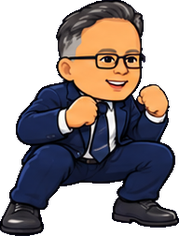
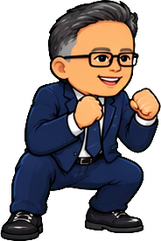
La Mocha: Marcelo con recorte desde fondo verde
Claude-Session: https://claude.ai/code/session_019FDnwE1yNBZjJsBSPwGXXr

diff --git a/la-mocha/index.html b/la-mocha/index.html
@@ -312,7 +312,7 @@ ROSTER.find(c=>c.name==="Bruno").spr="Bruno";
 /* ---------- Dibujo de luchadores ---------- */
 const HEADS=new Map();
 /* ---------- Sprites ilustrados ---------- */
-const SPRITES={"Ivan":{portrait:"personajes/Ivan/portrait.png",idle:{w:138,h:300,ax:72,src:"personajes/Ivan/idle.png"},punch:{w:167,h:300,ax:90,src:"personajes/Ivan/punch.png"},kick:{w:162,h:300,ax:36,src:"personajes/Ivan/kick.png"},hit:{w:145,h:300,ax:38,src:"personajes/Ivan/hit.png"},win:{w:134,h:300,ax:71,src:"personajes/Ivan/win.png"},crouch:{w:169,h:241,ax:92,src:"personajes/Ivan/crouch.png"},crouch_punch:{w:197,h:242,ax:105,src:"personajes/Ivan/crouch_punch.png"},crouch_kick:{w:177,h:215,ax:54,src:"personajes/Ivan/crouch_kick.png"},punch_hi:{w:182,h:300,ax:119,src:"personajes/Ivan/punch_hi.png"},upper:{w:190,h:325,ax:121,src:"personajes/Ivan/upper.png"},kick_hi:{w:176,h:300,ax:71,src:"personajes/Ivan/kick_hi.png"},block:{w:154,h:300,ax:82,src:"personajes/Ivan/block.png"}},"Marcelo":{portrait:"personajes/Marcelo/portrait.png",idle:{w:184,h:300,ax:93,src:"personajes/Marcelo/idle.png"},punch:{w:211,h:297,ax:104,src:"personajes/Marcelo/punch.png"},kick:{w:193,h:295,ax:50,src:"personajes/Marcelo/kick.png"},hit:{w:221,h:282,ax:63,src:"personajes/Marcelo/hit.png"},win:{w:201,h:294,ax:93,src:"personajes/Marcelo/win.png"},crouch:{w:179,h:236,ax:97,src:"personajes/Marcelo/crouch.png"},crouch_punch:{w:219,h:235,ax:121,src:"personajes/Marcelo/crouch_punch.png"},crouch_kick:{w:214,h:239,ax:78,src:"personajes/Marcelo/crouch_kick.png"},punch_hi:{w:212,h:306,ax:90,src:"personajes/Marcelo/punch_hi.png"},upper:{w:198,h:260,ax:98,src:"personajes/Marcelo/upper.png"},kick_hi:{w:201,h:327,ax:51,src:"personajes/Marcelo/kick_hi.png"},block:{w:187,h:291,ax:82,src:"personajes/Marcelo/block.png"}},"Bruno":{portrait:"personajes/Bruno/portrait.png",idle:{w:162,h:300,ax:85,src:"personajes/Bruno/idle.png"},punch:{w:201,h:300,ax:97,src:"personajes/Bruno/punch.png"},kick:{w:198,h:300,ax:46,src:"personajes/Bruno/kick.png"},hit:{w:167,h:300,ax:42,src:"personajes/Bruno/hit.png"},win:{w:153,h:300,ax:83,src:"personajes/Bruno/win.png"},crouch:{w:165,h:239,ax:105,src:"personajes/Bruno/crouch.png"},crouch_punch:{w:237,h:237,ax:115,src:"personajes/Bruno/crouch_punch.png"},crouch_kick:{w:175,h:198,ax:68,src:"personajes/Bruno/crouch_kick.png"},punch_hi:{w:174,h:302,ax:103,src:"personajes/Bruno/punch_hi.png"},upper:{w:194,h:337,ax:90,src:"personajes/Bruno/upper.png"},kick_hi:{w:188,h:300,ax:70,src:"personajes/Bruno/kick_hi.png"},block:{w:182,h:300,ax:105,src:"personajes/Bruno/block.png"}},"Karl":{portrait:"personajes/Karl/portrait.png",idle:{w:192,h:300,ax:88,src:"personajes/Karl/idle.png"},punch:{w:220,h:286,ax:112,src:"personajes/Karl/punch.png"},kick:{w:191,h:268,ax:34,src:"personajes/Karl/kick.png"},hit:{w:211,h:283,ax:32,src:"personajes/Karl/hit.png"},win:{w:202,h:317,ax:89,src:"personajes/Karl/win.png"},crouch:{w:178,h:233,ax:92,src:"personajes/Karl/crouch.png"},crouch_punch:{w:226,h:232,ax:120,src:"personajes/Karl/crouch_punch.png"},crouch_kick:{w:215,h:255,ax:52,src:"personajes/Karl/crouch_kick.png"},punch_hi:{w:209,h:306,ax:87,src:"personajes/Karl/punch_hi.png"},upper:{w:191,h:312,ax:85,src:"personajes/Karl/upper.png"},kick_hi:{w:192,h:340,ax:33,src:"personajes/Karl/kick_hi.png"},block:{w:190,h:295,ax:63,src:"personajes/Karl/block.png"}},"Klaus":{portrait:"personajes/Klaus/portrait.png",idle:{w:136,h:300,ax:70,src:"personajes/Klaus/idle.png"},punch:{w:158,h:300,ax:72,src:"personajes/Klaus/punch.png"},kick:{w:162,h:300,ax:37,src:"personajes/Klaus/kick.png"},hit:{w:144,h:300,ax:38,src:"personajes/Klaus/hit.png"},win:{w:128,h:300,ax:62,src:"personajes/Klaus/win.png"},crouch:{w:144,h:244,ax:94,src:"personajes/Klaus/crouch.png"},crouch_punch:{w:186,h:239,ax:86,src:"personajes/Klaus/crouch_punch.png"},crouch_kick:{w:156,h:208,ax:56,src:"personajes/Klaus/crouch_kick.png"},punch_hi:{w:186,h:302,ax:97,src:"personajes/Klaus/punch_hi.png"},upper:{w:199,h:341,ax:89,src:"personajes/Klaus/upper.png"},kick_hi:{w:168,h:300,ax:59,src:"personajes/Klaus/kick_hi.png"},block:{w:171,h:300,ax:94,src:"personajes/Klaus/block.png"}},"Felipe":{portrait:"personajes/Felipe/portrait.png",idle:{w:178,h:300,ax:101,src:"personajes/Felipe/idle.png"},punch:{w:207,h:300,ax:96,src:"personajes/Felipe/punch.png"},kick:{w:204,h:300,ax:70,src:"personajes/Felipe/kick.png"},hit:{w:187,h:300,ax:48,src:"personajes/Felipe/hit.png"},win:{w:174,h:300,ax:89,src:"personajes/Felipe/win.png"},crouch:{w:210,h:241,ax:117,src:"personajes/Felipe/crouch.png"},crouch_punch:{w:244,h:241,ax:114,src:"personajes/Felipe/crouch_punch.png"},crouch_kick:{w:201,h:200,ax:60,src:"personajes/Felipe/crouch_kick.png"},punch_hi:{w:233,h:302,ax:154,src:"personajes/Felipe/punch_hi.png"},upper:{w:218,h:341,ax:109,src:"personajes/Felipe/upper.png"},kick_hi:{w:192,h:307,ax:107,src:"personajes/Felipe/kick_hi.png"},block:{w:180,h:300,ax:100,src:"personajes/Felipe/block.png"}},"Adam":{portrait:"personajes/Adam/portrait.png",idle:{w:193,h:300,ax:99,src:"personajes/Adam/idle.png"},punch:{w:245,h:300,ax:124,src:"personajes/Adam/punch.png"},kick:{w:252,h:300,ax:80,src:"personajes/Adam/kick.png"},hit:{w:228,h:300,ax:75,src:"personajes/Adam/hit.png"},win:{w:185,h:300,ax:94,src:"personajes/Adam/win.png"},crouch:{w:217,h:236,ax:119,src:"personajes/Adam/crouch.png"},crouch_punch:{w:289,h:241,ax:146,src:"personajes/Adam/crouch_punch.png"},crouch_kick:{w:159,h:183,ax:53,src:"personajes/Adam/crouch_kick.png"},punch_hi:{w:199,h:305,ax:123,src:"personajes/Adam/punch_hi.png"},upper:{w:208,h:339,ax:127,src:"personajes/Adam/upper.png"},kick_hi:{w:202,h:307,ax:117,src:"personajes/Adam/kick_hi.png"},block:{w:180,h:300,ax:83,src:"personajes/Adam/block.png"}},"Lazza":{portrait:"personajes/Lazza/portrait.png",idle:{w:154,h:300,ax:77,src:"personajes/Lazza/idle.png"},punch:{w:186,h:300,ax:86,src:"personajes/Lazza/punch.png"},kick:{w:189,h:300,ax:53,src:"personajes/Lazza/kick.png"},hit:{w:163,h:300,ax:45,src:"personajes/Lazza/hit.png"},win:{w:147,h:300,ax:79,src:"personajes/Lazza/win.png"},crouch:{w:196,h:248,ax:104,src:"personajes/Lazza/crouch.png"},crouch_punch:{w:219,h:239,ax:102,src:"personajes/Lazza/crouch_punch.png"},crouch_kick:{w:168,h:191,ax:44,src:"personajes/Lazza/crouch_kick.png"},punch_hi:{w:216,h:300,ax:110,src:"personajes/Lazza/punch_hi.png"},upper:{w:217,h:348,ax:108,src:"personajes/Lazza/upper.png"},kick_hi:{w:217,h:309,ax:83,src:"personajes/Lazza/kick_hi.png"},block:{w:156,h:300,ax:64,src:"personajes/Lazza/block.png"}},"Espe":{portrait:"personajes/Espe/portrait.png",idle:{w:152,h:300,ax:67,src:"personajes/Espe/idle.png"},punch:{w:184,h:300,ax:86,src:"personajes/Espe/punch.png"},kick:{w:187,h:300,ax:49,src:"personajes/Espe/kick.png"},hit:{w:164,h:300,ax:49,src:"personajes/Espe/hit.png"},win:{w:126,h:300,ax:68,src:"personajes/Espe/win.png"},crouch:{w:182,h:241,ax:89,src:"personajes/Espe/crouch.png"},crouch_punch:{w:217,h:232,ax:102,src:"personajes/Espe/crouch_punch.png"},crouch_kick:{w:172,h:202,ax:55,src:"personajes/Espe/crouch_kick.png"},punch_hi:{w:215,h:302,ax:134,src:"personajes/Espe/punch_hi.png"},upper:{w:236,h:350,ax:154,src:"personajes/Espe/upper.png"},kick_hi:{w:218,h:300,ax:95,src:"personajes/Espe/kick_hi.png"},block:{w:168,h:300,ax:99,src:"personajes/Espe/block.png"}},"Marco":{portrait:"personajes/Marco/portrait.png",idle:{w:148,h:300,ax:81,src:"personajes/Marco/idle.png"},punch:{w:200,h:300,ax:107,src:"personajes/Marco/punch.png"},kick:{w:187,h:300,ax:53,src:"personajes/Marco/kick.png"},hit:{w:167,h:300,ax:49,src:"personajes/Marco/hit.png"},win:{w:163,h:300,ax:90,src:"personajes/Marco/win.png"},crouch:{w:161,h:242,ax:98,src:"personajes/Marco/crouch.png"},crouch_punch:{w:236,h:240,ax:125,src:"personajes/Marco/crouch_punch.png"},crouch_kick:{w:206,h:190,ax:58,src:"personajes/Marco/crouch_kick.png"},punch_hi:{w:229,h:306,ax:147,src:"personajes/Marco/punch_hi.png"},upper:{w:237,h:355,ax:134,src:"personajes/Marco/upper.png"},kick_hi:{w:212,h:302,ax:62,src:"personajes/Marco/kick_hi.png"},block:{w:183,h:300,ax:91,src:"personajes/Marco/block.png"}},"Maxi":{portrait:"personajes/Maxi/portrait.png",idle:{w:170,h:300,ax:87,src:"personajes/Maxi/idle.png"},punch:{w:192,h:300,ax:91,src:"personajes/Maxi/punch.png"},kick:{w:182,h:300,ax:40,src:"personajes/Maxi/kick.png"},hit:{w:175,h:300,ax:51,src:"personajes/Maxi/hit.png"},win:{w:167,h:300,ax:96,src:"personajes/Maxi/win.png"},crouch:{w:201,h:241,ax:102,src:"personajes/Maxi/crouch.png"},crouch_punch:{w:227,h:241,ax:108,src:"personajes/Maxi/crouch_punch.png"},crouch_kick:{w:164,h:201,ax:46,src:"personajes/Maxi/crouch_kick.png"},punch_hi:{w:196,h:300,ax:98,src:"personajes/Maxi/punch_hi.png"},upper:{w:224,h:349,ax:99,src:"personajes/Maxi/upper.png"},kick_hi:{w:182,h:300,ax:63,src:"personajes/Maxi/kick_hi.png"},block:{w:198,h:300,ax:109,src:"personajes/Maxi/block.png"}},"Marcelo Ig":{portrait:"personajes/Marcelo_Ig/portrait.png",idle:{w:173,h:300,ax:94,src:"personajes/Marcelo_Ig/idle.png"},punch:{w:197,h:300,ax:105,src:"personajes/Marcelo_Ig/punch.png"},kick:{w:189,h:300,ax:42,src:"personajes/Marcelo_Ig/kick.png"},hit:{w:176,h:300,ax:44,src:"personajes/Marcelo_Ig/hit.png"},win:{w:167,h:300,ax:91,src:"personajes/Marcelo_Ig/win.png"},crouch:{w:204,h:241,ax:109,src:"personajes/Marcelo_Ig/crouch.png"},crouch_punch:{w:232,h:241,ax:122,src:"personajes/Marcelo_Ig/crouch_punch.png"},crouch_kick:{w:176,h:204,ax:42,src:"personajes/Marcelo_Ig/crouch_kick.png"},punch_hi:{w:205,h:302,ax:133,src:"personajes/Marcelo_Ig/punch_hi.png"},upper:{w:217,h:355,ax:93,src:"personajes/Marcelo_Ig/upper.png"},kick_hi:{w:197,h:300,ax:60,src:"personajes/Marcelo_Ig/kick_hi.png"},block:{w:196,h:300,ax:106,src:"personajes/Marcelo_Ig/block.png"}},"Miguel":{portrait:"personajes/Miguel/portrait.png",idle:{w:173,h:300,ax:102,src:"personajes/Miguel/idle.png"},punch:{w:199,h:300,ax:106,src:"personajes/Miguel/punch.png"},kick:{w:206,h:300,ax:55,src:"personajes/Miguel/kick.png"},hit:{w:199,h:300,ax:48,src:"personajes/Miguel/hit.png"},win:{w:169,h:300,ax:93,src:"personajes/Miguel/win.png"},crouch:{w:204,h:248,ax:117,src:"personajes/Miguel/crouch.png"},crouch_punch:{w:235,h:248,ax:124,src:"personajes/Miguel/crouch_punch.png"},crouch_kick:{w:166,h:193,ax:49,src:"personajes/Miguel/crouch_kick.png"},punch_hi:{w:200,h:300,ax:106,src:"personajes/Miguel/punch_hi.png"},upper:{w:214,h:300,ax:107,src:"personajes/Miguel/upper.png"},kick_hi:{w:189,h:300,ax:57,src:"personajes/Miguel/kick_hi.png"},block:{w:176,h:300,ax:87,src:"personajes/Miguel/block.png"}}};
+const SPRITES={"Ivan":{portrait:"personajes/Ivan/portrait.png",idle:{w:138,h:300,ax:72,src:"personajes/Ivan/idle.png"},punch:{w:167,h:300,ax:90,src:"personajes/Ivan/punch.png"},kick:{w:162,h:300,ax:36,src:"personajes/Ivan/kick.png"},hit:{w:145,h:300,ax:38,src:"personajes/Ivan/hit.png"},win:{w:134,h:300,ax:71,src:"personajes/Ivan/win.png"},crouch:{w:169,h:241,ax:92,src:"personajes/Ivan/crouch.png"},crouch_punch:{w:197,h:242,ax:105,src:"personajes/Ivan/crouch_punch.png"},crouch_kick:{w:177,h:215,ax:54,src:"personajes/Ivan/crouch_kick.png"},punch_hi:{w:182,h:300,ax:119,src:"personajes/Ivan/punch_hi.png"},upper:{w:190,h:325,ax:121,src:"personajes/Ivan/upper.png"},kick_hi:{w:176,h:300,ax:71,src:"personajes/Ivan/kick_hi.png"},block:{w:154,h:300,ax:82,src:"personajes/Ivan/block.png"}},"Marcelo":{portrait:"personajes/Marcelo/portrait.png",idle:{w:182,h:300,ax:83,src:"personajes/Marcelo/idle.png"},punch:{w:201,h:285,ax:94,src:"personajes/Marcelo/punch.png"},kick:{w:187,h:284,ax:55,src:"personajes/Marcelo/kick.png"},hit:{w:203,h:265,ax:62,src:"personajes/Marcelo/hit.png"},win:{w:181,h:276,ax:63,src:"personajes/Marcelo/win.png"},crouch:{w:161,h:241,ax:90,src:"personajes/Marcelo/crouch.png"},crouch_punch:{w:213,h:235,ax:120,src:"personajes/Marcelo/crouch_punch.png"},crouch_kick:{w:207,h:235,ax:60,src:"personajes/Marcelo/crouch_kick.png"},punch_hi:{w:198,h:300,ax:84,src:"personajes/Marcelo/punch_hi.png"},upper:{w:188,h:305,ax:80,src:"personajes/Marcelo/upper.png"},kick_hi:{w:193,h:310,ax:55,src:"personajes/Marcelo/kick_hi.png"},block:{w:184,h:290,ax:79,src:"personajes/Marcelo/block.png"}},"Bruno":{portrait:"personajes/Bruno/portrait.png",idle:{w:162,h:300,ax:85,src:"personajes/Bruno/idle.png"},punch:{w:201,h:300,ax:97,src:"personajes/Bruno/punch.png"},kick:{w:198,h:300,ax:46,src:"personajes/Bruno/kick.png"},hit:{w:167,h:300,ax:42,src:"personajes/Bruno/hit.png"},win:{w:153,h:300,ax:83,src:"personajes/Bruno/win.png"},crouch:{w:165,h:239,ax:105,src:"personajes/Bruno/crouch.png"},crouch_punch:{w:237,h:237,ax:115,src:"personajes/Bruno/crouch_punch.png"},crouch_kick:{w:175,h:198,ax:68,src:"personajes/Bruno/crouch_kick.png"},punch_hi:{w:174,h:302,ax:103,src:"personajes/Bruno/punch_hi.png"},upper:{w:194,h:337,ax:90,src:"personajes/Bruno/upper.png"},kick_hi:{w:188,h:300,ax:70,src:"personajes/Bruno/kick_hi.png"},block:{w:182,h:300,ax:105,src:"personajes/Bruno/block.png"}},"Karl":{portrait:"personajes/Karl/portrait.png",idle:{w:192,h:300,ax:88,src:"personajes/Karl/idle.png"},punch:{w:220,h:286,ax:112,src:"personajes/Karl/punch.png"},kick:{w:191,h:268,ax:34,src:"personajes/Karl/kick.png"},hit:{w:211,h:283,ax:32,src:"personajes/Karl/hit.png"},win:{w:202,h:317,ax:89,src:"personajes/Karl/win.png"},crouch:{w:178,h:233,ax:92,src:"personajes/Karl/crouch.png"},crouch_punch:{w:226,h:232,ax:120,src:"personajes/Karl/crouch_punch.png"},crouch_kick:{w:215,h:255,ax:52,src:"personajes/Karl/crouch_kick.png"},punch_hi:{w:209,h:306,ax:87,src:"personajes/Karl/punch_hi.png"},upper:{w:191,h:312,ax:85,src:"personajes/Karl/upper.png"},kick_hi:{w:192,h:340,ax:33,src:"personajes/Karl/kick_hi.png"},block:{w:190,h:295,ax:63,src:"personajes/Karl/block.png"}},"Klaus":{portrait:"personajes/Klaus/portrait.png",idle:{w:136,h:300,ax:70,src:"personajes/Klaus/idle.png"},punch:{w:158,h:300,ax:72,src:"personajes/Klaus/punch.png"},kick:{w:162,h:300,ax:37,src:"personajes/Klaus/kick.png"},hit:{w:144,h:300,ax:38,src:"personajes/Klaus/hit.png"},win:{w:128,h:300,ax:62,src:"personajes/Klaus/win.png"},crouch:{w:144,h:244,ax:94,src:"personajes/Klaus/crouch.png"},crouch_punch:{w:186,h:239,ax:86,src:"personajes/Klaus/crouch_punch.png"},crouch_kick:{w:156,h:208,ax:56,src:"personajes/Klaus/crouch_kick.png"},punch_hi:{w:186,h:302,ax:97,src:"personajes/Klaus/punch_hi.png"},upper:{w:199,h:341,ax:89,src:"personajes/Klaus/upper.png"},kick_hi:{w:168,h:300,ax:59,src:"personajes/Klaus/kick_hi.png"},block:{w:171,h:300,ax:94,src:"personajes/Klaus/block.png"}},"Felipe":{portrait:"personajes/Felipe/portrait.png",idle:{w:178,h:300,ax:101,src:"personajes/Felipe/idle.png"},punch:{w:207,h:300,ax:96,src:"personajes/Felipe/punch.png"},kick:{w:204,h:300,ax:70,src:"personajes/Felipe/kick.png"},hit:{w:187,h:300,ax:48,src:"personajes/Felipe/hit.png"},win:{w:174,h:300,ax:89,src:"personajes/Felipe/win.png"},crouch:{w:210,h:241,ax:117,src:"personajes/Felipe/crouch.png"},crouch_punch:{w:244,h:241,ax:114,src:"personajes/Felipe/crouch_punch.png"},crouch_kick:{w:201,h:200,ax:60,src:"personajes/Felipe/crouch_kick.png"},punch_hi:{w:233,h:302,ax:154,src:"personajes/Felipe/punch_hi.png"},upper:{w:218,h:341,ax:109,src:"personajes/Felipe/upper.png"},kick_hi:{w:192,h:307,ax:107,src:"personajes/Felipe/kick_hi.png"},block:{w:180,h:300,ax:100,src:"personajes/Felipe/block.png"}},"Adam":{portrait:"personajes/Adam/portrait.png",idle:{w:193,h:300,ax:99,src:"personajes/Adam/idle.png"},punch:{w:245,h:300,ax:124,src:"personajes/Adam/punch.png"},kick:{w:252,h:300,ax:80,src:"personajes/Adam/kick.png"},hit:{w:228,h:300,ax:75,src:"personajes/Adam/hit.png"},win:{w:185,h:300,ax:94,src:"personajes/Adam/win.png"},crouch:{w:217,h:236,ax:119,src:"personajes/Adam/crouch.png"},crouch_punch:{w:289,h:241,ax:146,src:"personajes/Adam/crouch_punch.png"},crouch_kick:{w:159,h:183,ax:53,src:"personajes/Adam/crouch_kick.png"},punch_hi:{w:199,h:305,ax:123,src:"personajes/Adam/punch_hi.png"},upper:{w:208,h:339,ax:127,src:"personajes/Adam/upper.png"},kick_hi:{w:202,h:307,ax:117,src:"personajes/Adam/kick_hi.png"},block:{w:180,h:300,ax:83,src:"personajes/Adam/block.png"}},"Lazza":{portrait:"personajes/Lazza/portrait.png",idle:{w:154,h:300,ax:77,src:"personajes/Lazza/idle.png"},punch:{w:186,h:300,ax:86,src:"personajes/Lazza/punch.png"},kick:{w:189,h:300,ax:53,src:"personajes/Lazza/kick.png"},hit:{w:163,h:300,ax:45,src:"personajes/Lazza/hit.png"},win:{w:147,h:300,ax:79,src:"personajes/Lazza/win.png"},crouch:{w:196,h:248,ax:104,src:"personajes/Lazza/crouch.png"},crouch_punch:{w:219,h:239,ax:102,src:"personajes/Lazza/crouch_punch.png"},crouch_kick:{w:168,h:191,ax:44,src:"personajes/Lazza/crouch_kick.png"},punch_hi:{w:216,h:300,ax:110,src:"personajes/Lazza/punch_hi.png"},upper:{w:217,h:348,ax:108,src:"personajes/Lazza/upper.png"},kick_hi:{w:217,h:309,ax:83,src:"personajes/Lazza/kick_hi.png"},block:{w:156,h:300,ax:64,src:"personajes/Lazza/block.png"}},"Espe":{portrait:"personajes/Espe/portrait.png",idle:{w:152,h:300,ax:67,src:"personajes/Espe/idle.png"},punch:{w:184,h:300,ax:86,src:"personajes/Espe/punch.png"},kick:{w:187,h:300,ax:49,src:"personajes/Espe/kick.png"},hit:{w:164,h:300,ax:49,src:"personajes/Espe/hit.png"},win:{w:126,h:300,ax:68,src:"personajes/Espe/win.png"},crouch:{w:182,h:241,ax:89,src:"personajes/Espe/crouch.png"},crouch_punch:{w:217,h:232,ax:102,src:"personajes/Espe/crouch_punch.png"},crouch_kick:{w:172,h:202,ax:55,src:"personajes/Espe/crouch_kick.png"},punch_hi:{w:215,h:302,ax:134,src:"personajes/Espe/punch_hi.png"},upper:{w:236,h:350,ax:154,src:"personajes/Espe/upper.png"},kick_hi:{w:218,h:300,ax:95,src:"personajes/Espe/kick_hi.png"},block:{w:168,h:300,ax:99,src:"personajes/Espe/block.png"}},"Marco":{portrait:"personajes/Marco/portrait.png",idle:{w:148,h:300,ax:81,src:"personajes/Marco/idle.png"},punch:{w:200,h:300,ax:107,src:"personajes/Marco/punch.png"},kick:{w:187,h:300,ax:53,src:"personajes/Marco/kick.png"},hit:{w:167,h:300,ax:49,src:"personajes/Marco/hit.png"},win:{w:163,h:300,ax:90,src:"personajes/Marco/win.png"},crouch:{w:161,h:242,ax:98,src:"personajes/Marco/crouch.png"},crouch_punch:{w:236,h:240,ax:125,src:"personajes/Marco/crouch_punch.png"},crouch_kick:{w:206,h:190,ax:58,src:"personajes/Marco/crouch_kick.png"},punch_hi:{w:229,h:306,ax:147,src:"personajes/Marco/punch_hi.png"},upper:{w:237,h:355,ax:134,src:"personajes/Marco/upper.png"},kick_hi:{w:212,h:302,ax:62,src:"personajes/Marco/kick_hi.png"},block:{w:183,h:300,ax:91,src:"personajes/Marco/block.png"}},"Maxi":{portrait:"personajes/Maxi/portrait.png",idle:{w:170,h:300,ax:87,src:"personajes/Maxi/idle.png"},punch:{w:192,h:300,ax:91,src:"personajes/Maxi/punch.png"},kick:{w:182,h:300,ax:40,src:"personajes/Maxi/kick.png"},hit:{w:175,h:300,ax:51,src:"personajes/Maxi/hit.png"},win:{w:167,h:300,ax:96,src:"personajes/Maxi/win.png"},crouch:{w:201,h:241,ax:102,src:"personajes/Maxi/crouch.png"},crouch_punch:{w:227,h:241,ax:108,src:"personajes/Maxi/crouch_punch.png"},crouch_kick:{w:164,h:201,ax:46,src:"personajes/Maxi/crouch_kick.png"},punch_hi:{w:196,h:300,ax:98,src:"personajes/Maxi/punch_hi.png"},upper:{w:224,h:349,ax:99,src:"personajes/Maxi/upper.png"},kick_hi:{w:182,h:300,ax:63,src:"personajes/Maxi/kick_hi.png"},block:{w:198,h:300,ax:109,src:"personajes/Maxi/block.png"}},"Marcelo Ig":{portrait:"personajes/Marcelo_Ig/portrait.png",idle:{w:173,h:300,ax:94,src:"personajes/Marcelo_Ig/idle.png"},punch:{w:197,h:300,ax:105,src:"personajes/Marcelo_Ig/punch.png"},kick:{w:189,h:300,ax:42,src:"personajes/Marcelo_Ig/kick.png"},hit:{w:176,h:300,ax:44,src:"personajes/Marcelo_Ig/hit.png"},win:{w:167,h:300,ax:91,src:"personajes/Marcelo_Ig/win.png"},crouch:{w:204,h:241,ax:109,src:"personajes/Marcelo_Ig/crouch.png"},crouch_punch:{w:232,h:241,ax:122,src:"personajes/Marcelo_Ig/crouch_punch.png"},crouch_kick:{w:176,h:204,ax:42,src:"personajes/Marcelo_Ig/crouch_kick.png"},punch_hi:{w:205,h:302,ax:133,src:"personajes/Marcelo_Ig/punch_hi.png"},upper:{w:217,h:355,ax:93,src:"personajes/Marcelo_Ig/upper.png"},kick_hi:{w:197,h:300,ax:60,src:"personajes/Marcelo_Ig/kick_hi.png"},block:{w:196,h:300,ax:106,src:"personajes/Marcelo_Ig/block.png"}},"Miguel":{portrait:"personajes/Miguel/portrait.png",idle:{w:173,h:300,ax:102,src:"personajes/Miguel/idle.png"},punch:{w:199,h:300,ax:106,src:"personajes/Miguel/punch.png"},kick:{w:206,h:300,ax:55,src:"personajes/Miguel/kick.png"},hit:{w:199,h:300,ax:48,src:"personajes/Miguel/hit.png"},win:{w:169,h:300,ax:93,src:"personajes/Miguel/win.png"},crouch:{w:204,h:248,ax:117,src:"personajes/Miguel/crouch.png"},crouch_punch:{w:235,h:248,ax:124,src:"personajes/Miguel/crouch_punch.png"},crouch_kick:{w:166,h:193,ax:49,src:"personajes/Miguel/crouch_kick.png"},punch_hi:{w:200,h:300,ax:106,src:"personajes/Miguel/punch_hi.png"},upper:{w:214,h:300,ax:107,src:"personajes/Miguel/upper.png"},kick_hi:{w:189,h:300,ax:57,src:"personajes/Miguel/kick_hi.png"},block:{w:176,h:300,ax:87,src:"personajes/Miguel/block.png"}}};
 for(const name in SPRITES){const S=SPRITES[name];let n=0,need=0;
   for(const k in S){if(k==="portrait"){const im=new Image();im.onload=()=>{S.pimg=im;HEADS.clear();try{ROSTER.forEach((ch,i)=>{const c=document.querySelector("#card"+i+" canvas");if(c)portrait(c,ch)})}catch(e){}};im.src=S.portrait;continue}
     need++;const m=S[k];if(k.startsWith("crouch"))m.bent=true;const im=new Image();im.onload=()=>{m.img=im;if(++n===need){S.ok=true;HEADS.clear&&HEADS.clear();try{ROSTER.forEach((ch,i)=>{const c=document.querySelector("#card"+i+" canvas");if(c)portrait(c,ch)})}catch(e){}}};im.src=m.src}}
